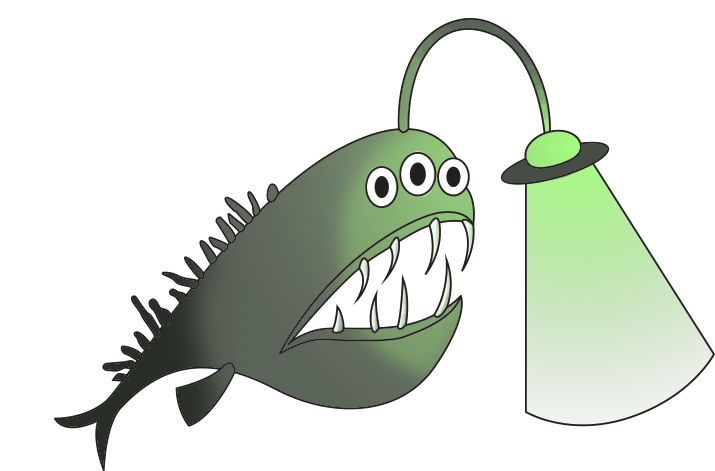
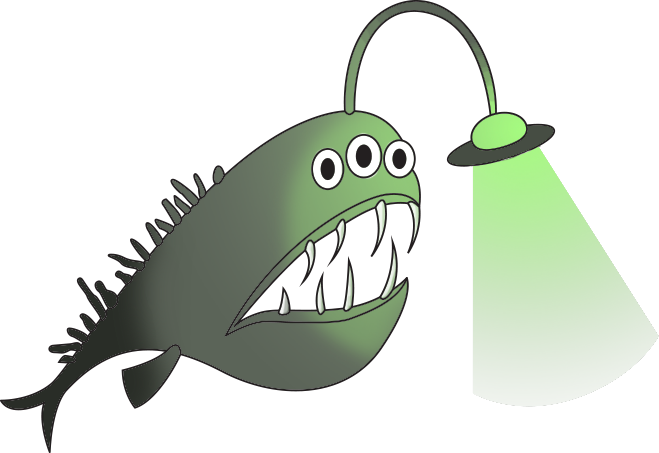
Basic rhinopus

diff --git a/js/npc.js b/js/npc.js
@@ -1,6 +1,6 @@
 // Generated by LiveScript 1.2.0
 (function(){
-  var neutral, aggressive, shy, NPC, randomNpc, NPCController;
+  var neutral, aggressive, shy, NPC, randomNpc, rhinopusSpec, NPCController;
   neutral = function(npc, t){
     var coefs;
     if (npc.neutralCoefs == null) {
@@ -59,10 +59,18 @@
   window.NPC = NPC = (function(superclass){
     var prototype = extend$((import$(NPC, superclass).displayName = 'NPC', NPC), superclass).prototype, constructor = NPC;
     function NPC(arg$, x, y){
-      var sprite, ai, pivot, maxSpeed, ref$, extra, collide, texture;
+      var sprite, ai, pivot, maxSpeed, ref$, extra, collide, scale, init, update, texture;
       sprite = arg$.sprite, ai = arg$.ai, pivot = arg$.pivot, maxSpeed = (ref$ = arg$.maxSpeed) != null ? ref$ : 3, extra = (ref$ = arg$.extra) != null
         ? ref$
         : {}, collide = (ref$ = arg$.collide) != null
+        ? ref$
+        : function(){
+          return null;
+        }, scale = (ref$ = arg$.scale) != null ? ref$ : 0.3, init = (ref$ = arg$.init) != null
+        ? ref$
+        : function(){
+          return null;
+        }, update = (ref$ = arg$.update) != null
         ? ref$
         : function(){
           return null;
@@ -72,9 +80,11 @@
       NPC.superclass.call(this, texture);
       this.aiFn = ai;
       this.collideFn = collide;
+      this.updateFn = update;
+      init(this);
       this.position.x = x;
       this.position.y = y;
-      this.scale.x = this.scale.y = 0.3;
+      this.scale.x = this.scale.y = scale;
       import$(this.pivot, pivot);
       this.maxSpeed = maxSpeed;
       this.extra = extra;
@@ -91,6 +101,7 @@
       var direction, sd, cd, px, py, distSq;
       this.position.x -= v.x;
       this.position.y -= v.y;
+      this.updateFn(this, time);
       this.aiFn(this, time);
       this.rotation = this.direction;
       direction = this.direction;
@@ -106,7 +117,8 @@
       distSq = px * px + py * py;
       if (distSq < 8100 && !this.collided) {
         this.collided = true;
-        return this.collideFn();
+        this.collideFn();
+        return elephantopus.interact();
       } else if (distSq > 8100 && this.collided) {
         return this.collided = false;
       }
@@ -179,7 +191,7 @@
           y: 200
         },
         collide: function(){
-          return window.heal(30);
+          return window.heal(10);
         }
       }, {
         sprite: 'npcs/monkey-fish',
@@ -189,7 +201,7 @@
           y: 300
         },
         collide: function(){
-          return window.heal(11);
+          return window.hurt(11);
         }
       }, {
         sprite: 'npcs/squid',
@@ -215,12 +227,42 @@
     ];
     return npcs[Math.floor(npcs.length * Math.random())];
   };
+  rhinopusSpec = {
+    sprite: 'npcs/rhinopus',
+    ai: function(){
+      return null;
+    },
+    pivot: {
+      x: 100,
+      y: 100
+    },
+    collide: function(){
+      return alert('YAY!');
+    },
+    scale: 0.8,
+    extra: {
+      isRhinopus: true
+    },
+    init: function(rh){
+      var tentacles;
+      tentacles = new TentacleSet(6, 6, 20);
+      tentacles.scale.x = tentacles.scale.y = 0.5;
+      tentacles.position.x = 35;
+      tentacles.position.y = 100;
+      rh.addChild(tentacles);
+      return rh.tentacles = tentacles;
+    },
+    update: function(rh, t){
+      return rh.tentacles.update(t);
+    }
+  };
   window.NPCController = NPCController = (function(superclass){
     var prototype = extend$((import$(NPCController, superclass).displayName = 'NPCController', NPCController), superclass).prototype, constructor = NPCController;
     function NPCController(n){
       var i$, i;
       this.update = bind$(this, 'update', prototype);
       this.addNpc = bind$(this, 'addNpc', prototype);
+      this.spawnRhinopus = bind$(this, 'spawnRhinopus', prototype);
       NPCController.superclass.call(this);
       this.npcs = [];
       this.pad = 100;
@@ -233,9 +275,21 @@
       this.maxY = 1080 * 3.5;
       this.minY = -1080 * 2.5;
     }
-    prototype.addNpc = function(pad){
+    prototype.spawnRhinopus = function(){
+      var this$ = this;
+      if (!this.spawnedRhinopus) {
+        this.spawnedRhinopus = true;
+        window.rhinopus = this.addNpc(this.pad, rhinopusSpec);
+        return setTimeout(function(){
+          var ref$;
+          return (ref$ = this$.npcs)[ref$.length] = window.rhinopus;
+        }, 1);
+      }
+    };
+    prototype.addNpc = function(pad, npcSpec){
       var px, py, s, x, y, npc, ref$;
       pad == null && (pad = this.pad);
+      npcSpec == null && (npcSpec = randomNpc());
       px = random(-1080, 1080);
       py = random(-1080, 1080);
       s = Math.random();
@@ -269,12 +323,12 @@
       px += 1080 / 2;
       py += 720 / 2;
       console.log('Create NPC:', px, py);
-      npc = new NPC(randomNpc(), px, py);
+      npc = new NPC(npcSpec, px, py);
       this.addChild(npc);
       return (ref$ = this.npcs)[ref$.length] = npc;
     };
     prototype.update = function(t, v){
-      var newNpcs, i$, ref$, len$, npc;
+      var newNpcs, i$, ref$, len$, npc, rh;
       newNpcs = [];
       console.log(this.npcs.length);
       for (i$ = 0, len$ = (ref$ = this.npcs).length; i$ < len$; ++i$) {
@@ -282,7 +336,13 @@
         npc.update(t, v);
         if (npc.position.x < this.minX || npc.position.x > this.maxX || npc.position.y < this.minY || npc.position.y > this.maxY) {
           this.removeChild(npc);
-          newNpcs[newNpcs.length] = this.addNpc();
+          if (npc.extra.isRhinopus) {
+            rh = this.addNpc(this.pad, rhinopusSpec);
+            window.rhinopus = rh;
+            newNpcs[newNpcs.length] = rh;
+          } else {
+            newNpcs[newNpcs.length] = this.addNpc();
+          }
           console.log('Replace NPC!');
         } else {
           newNpcs[newNpcs.length] = npc;

diff --git a/js/index.js b/js/index.js
@@ -1,23 +1,24 @@
 // Generated by LiveScript 1.2.0
 (function(){
-  var $, $$, stage, view, renderer, bg, seaContainer, soundBubbleEvil, soundBubbleFriendly, soundDeath, playSound, elephantopus, healthIndicator, elscale, tentacles, trunk, blurFilter, backgroundShader, bubbles, clearingVision, visionIndicator, visionIndicatorBar, mouse, keys, npcs, acc, damp, maxSpeed, world, velocity, animate;
+  var $, $$, neededInteractions, stage, view, renderer, seaContainer, bg, soundBubbleEvil, soundBubbleFriendly, soundDeath, playSound, elephantopus, elscale, healthIndicator, tentacles, trunk, pointer, blurFilter, backgroundShader, bubbles, clearingVision, visionIndicator, visionIndicatorBar, mouse, keys, npcs, acc, damp, maxSpeed, world, velocity, animate;
   $ = function(s){
     return document.querySelector(s);
   };
   $$ = function(s){
     return document.querySelectorAll(s);
   };
+  neededInteractions = 6;
   window.random = function(min, max){
     return min + Math.random() * (max - min);
   };
   stage = new PIXI.Stage(0x333333);
   view = $('#main');
   renderer = new PIXI.WebGLRenderer(1080, 720, view);
-  bg = PIXI.Sprite.fromImage('assets/img/bg-blur.png');
-  stage.addChild(bg);
-  bg.scale.x = bg.scale.y = 1;
   seaContainer = new PIXI.DisplayObjectContainer();
   stage.addChild(seaContainer);
+  bg = PIXI.Sprite.fromImage('assets/img/bg-blur.png');
+  seaContainer.addChild(bg);
+  bg.scale.x = bg.scale.y = 1;
   soundBubbleEvil = $('#bubble-evil');
   soundBubbleFriendly = $('#bubble-friendly');
   soundDeath = $('#death');
@@ -42,6 +43,9 @@
   elephantopus.pivot.y = 100;
   elephantopus.position.x = 1080 / 2;
   elephantopus.position.y = 720 / 2;
+  elscale = 0.8;
+  elephantopus.scale.x = elephantopus.scale.y = elscale;
+  window.elephantopus = elephantopus;
   elephantopus.health = 100;
   healthIndicator = $('#health-indicator .inner');
   elephantopus.hurt = function(amt){
@@ -67,8 +71,6 @@
     elephantopus.killed = true;
     return elephantopus.killedFrames = 0;
   };
-  elscale = 0.8;
-  elephantopus.scale.x = elephantopus.scale.y = elscale;
   tentacles = new TentacleSet(6, 6, 20);
   tentacles.scale.x = tentacles.scale.y = 0.5;
   tentacles.position.x = 55;
@@ -80,13 +82,24 @@
   trunk.scale.x = trunk.scale.y = 1.1;
   elephantopus.addChild(tentacles);
   elephantopus.addChild(trunk);
+  pointer = PIXI.Sprite.fromImage('assets/img/pointer.png');
+  pointer.pivot = {
+    x: 50,
+    y: 300
+  };
+  pointer.position = {
+    x: 540,
+    y: 360
+  };
+  stage.addChild(pointer);
+  pointer.alpha = 0;
   blurFilter = new BlurVignetteFilter();
   blurFilter.blur = 50;
   blurFilter.outerRadius = 0.3;
   backgroundShader = new BackgroundShader();
   backgroundShader.time = Date.now();
   bg.filters = [backgroundShader];
-  stage.filters = [blurFilter];
+  seaContainer.filters = [blurFilter];
   bubbles = new BubbleField(0.3);
   seaContainer.addChild(bubbles);
   clearingVision = false;
@@ -118,7 +131,14 @@
   keys = getKeys();
   npcs = new NPCController(30);
   seaContainer.addChild(npcs);
-  acc = 0.03;
+  elephantopus.interactions = 0;
+  elephantopus.interact = function(){
+    elephantopus.interactions += 1;
+    if (neededInteractions <= elephantopus.interactions) {
+      return npcs.spawnRhinopus();
+    }
+  };
+  acc = 0.1;
   damp = 0.01;
   maxSpeed = 3.5;
   world = {
@@ -231,6 +251,10 @@
         bubbles.burst(1, 580, elephantopus.position.y);
       }
       elephantopus.killedFrames += 1;
+    }
+    if (npcs.spawnedRhinopus) {
+      pointer.alpha = 1;
+      pointer.rotation = Math.atan2(360 - rhinopus.position.y, 540 - rhinopus.position.x) - Math.PI / 2;
     }
     renderer.render(stage);
     return window.requestAnimationFrame(animate);
